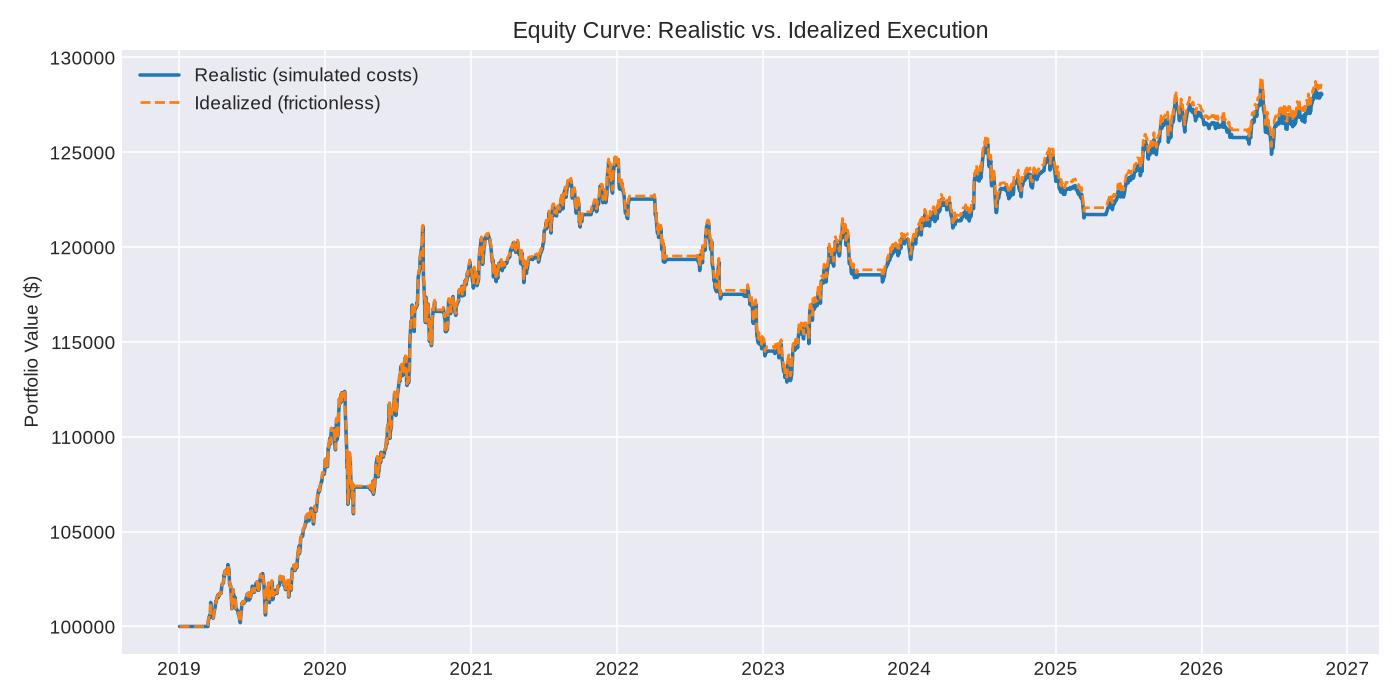
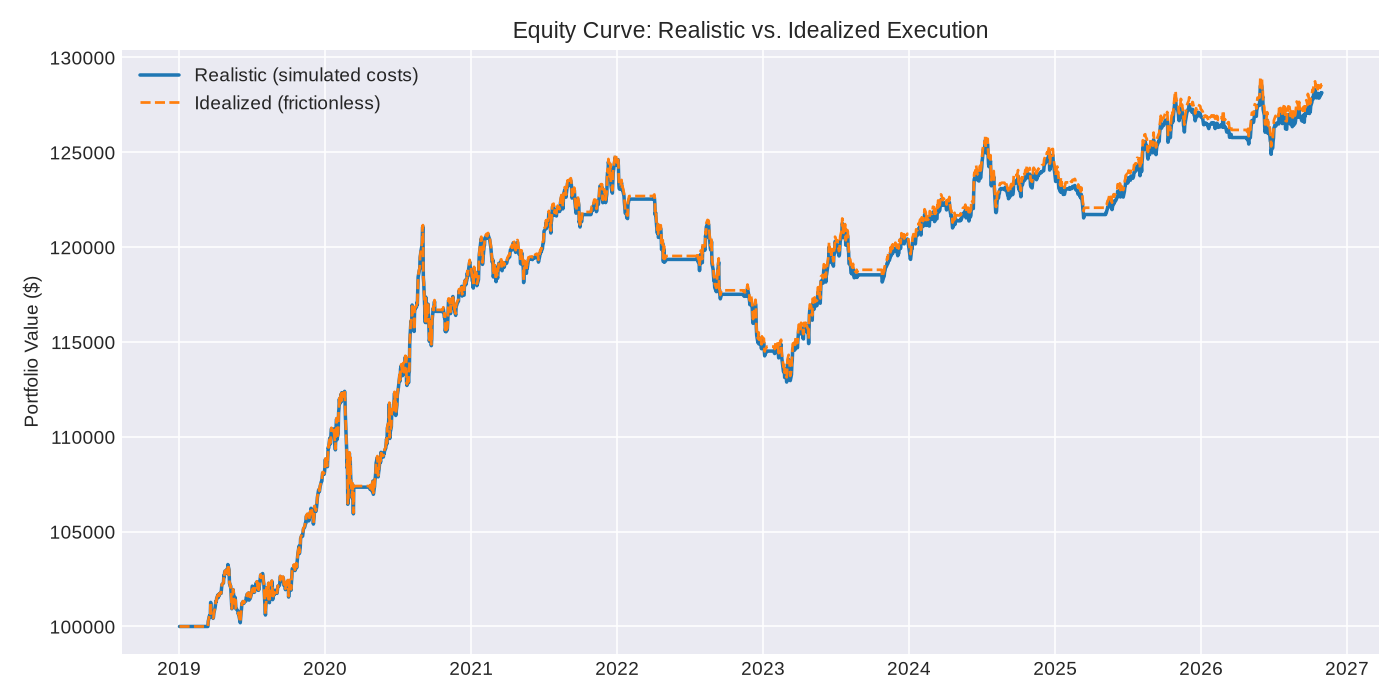
deploy: 54ebe60f0ebcf403000e6dc4eecdd47279bc0f4b

diff --git a/index.html b/index.html
@@ -11,9 +11,9 @@ img { max-width: 100%; margin-bottom: 24px; border: 1px solid #30363d; border-ra
 </style></head>
 <body>
 <h1>Event-Driven Backtest Tearsheet</h1>
-<p class="timestamp">Auto-generated 2026-10-30 01:11 UTC — this page regenerates every scheduled run, no manual step involved.</p>
+<p class="timestamp">Auto-generated 2026-10-31 00:54 UTC — this page regenerates every scheduled run, no manual step involved.</p>
 <h2>Summary</h2>
-<table><tr><td>Initial Capital</td><td>100000</td></tr><tr><td>Final Equity Realistic</td><td>128,049.2898</td></tr><tr><td>Final Equity Idealized</td><td>128,482.0894</td></tr><tr><td>Realistic Pnl</td><td>28,049.2898</td></tr><tr><td>Idealized Pnl</td><td>28,482.0894</td></tr><tr><td>Execution Cost Drag</td><td>432.7996</td></tr><tr><td>Execution Cost Drag Pct Of Idealized</td><td>0.0152</td></tr><tr><td>Total Return Pct</td><td>0.2805</td></tr><tr><td>Annualized Return</td><td>0.0322</td></tr><tr><td>Sharpe Ratio</td><td>0.7460</td></tr><tr><td>Sortino Ratio</td><td>0.8196</td></tr><tr><td>Max Drawdown</td><td>-0.0950</td></tr><tr><td>Turnover</td><td>10.4639</td></tr><tr><td>Num Fills</td><td>121</td></tr><tr><td>Total Slippage Dollars</td><td>311.4375</td></tr><tr><td>Total Commission Dollars</td><td>121.3621</td></tr><tr><td>Avg Latency Ms</td><td>81.8016</td></tr><tr><td>Num Partial Fills</td><td>0</td></tr></table>
+<table><tr><td>Initial Capital</td><td>100000</td></tr><tr><td>Final Equity Realistic</td><td>128,142.8844</td></tr><tr><td>Final Equity Idealized</td><td>128,575.6840</td></tr><tr><td>Realistic Pnl</td><td>28,142.8844</td></tr><tr><td>Idealized Pnl</td><td>28,575.6840</td></tr><tr><td>Execution Cost Drag</td><td>432.7996</td></tr><tr><td>Execution Cost Drag Pct Of Idealized</td><td>0.0151</td></tr><tr><td>Total Return Pct</td><td>0.2814</td></tr><tr><td>Annualized Return</td><td>0.0322</td></tr><tr><td>Sharpe Ratio</td><td>0.7480</td></tr><tr><td>Sortino Ratio</td><td>0.8216</td></tr><tr><td>Max Drawdown</td><td>-0.0950</td></tr><tr><td>Turnover</td><td>10.4634</td></tr><tr><td>Num Fills</td><td>121</td></tr><tr><td>Total Slippage Dollars</td><td>311.4375</td></tr><tr><td>Total Commission Dollars</td><td>121.3621</td></tr><tr><td>Avg Latency Ms</td><td>81.8016</td></tr><tr><td>Num Partial Fills</td><td>0</td></tr></table>
 <h2>Equity Curve</h2>
 <img src="equity_curve.png">
 <h2>Drawdown</h2>
